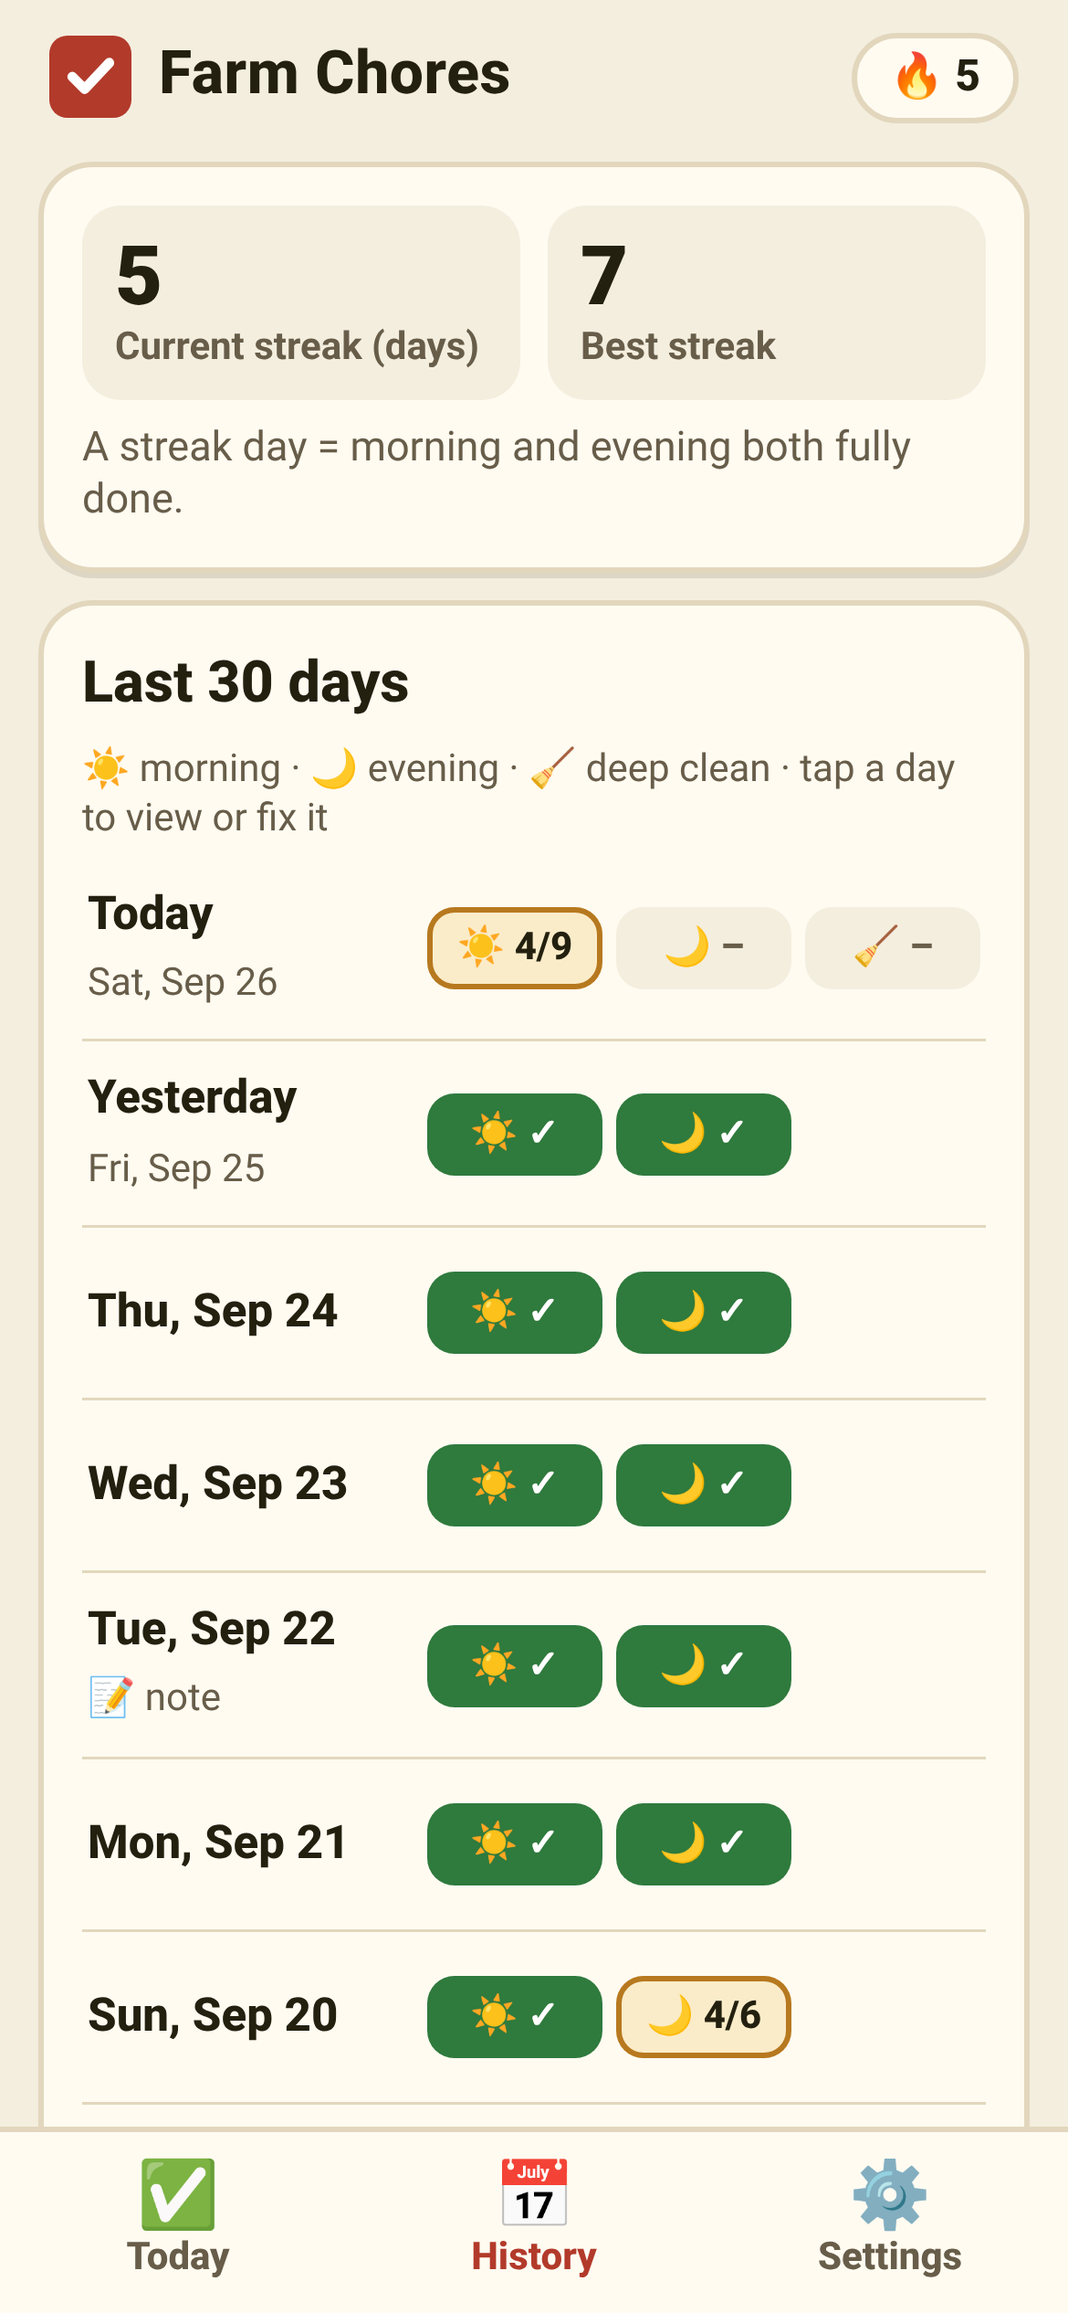
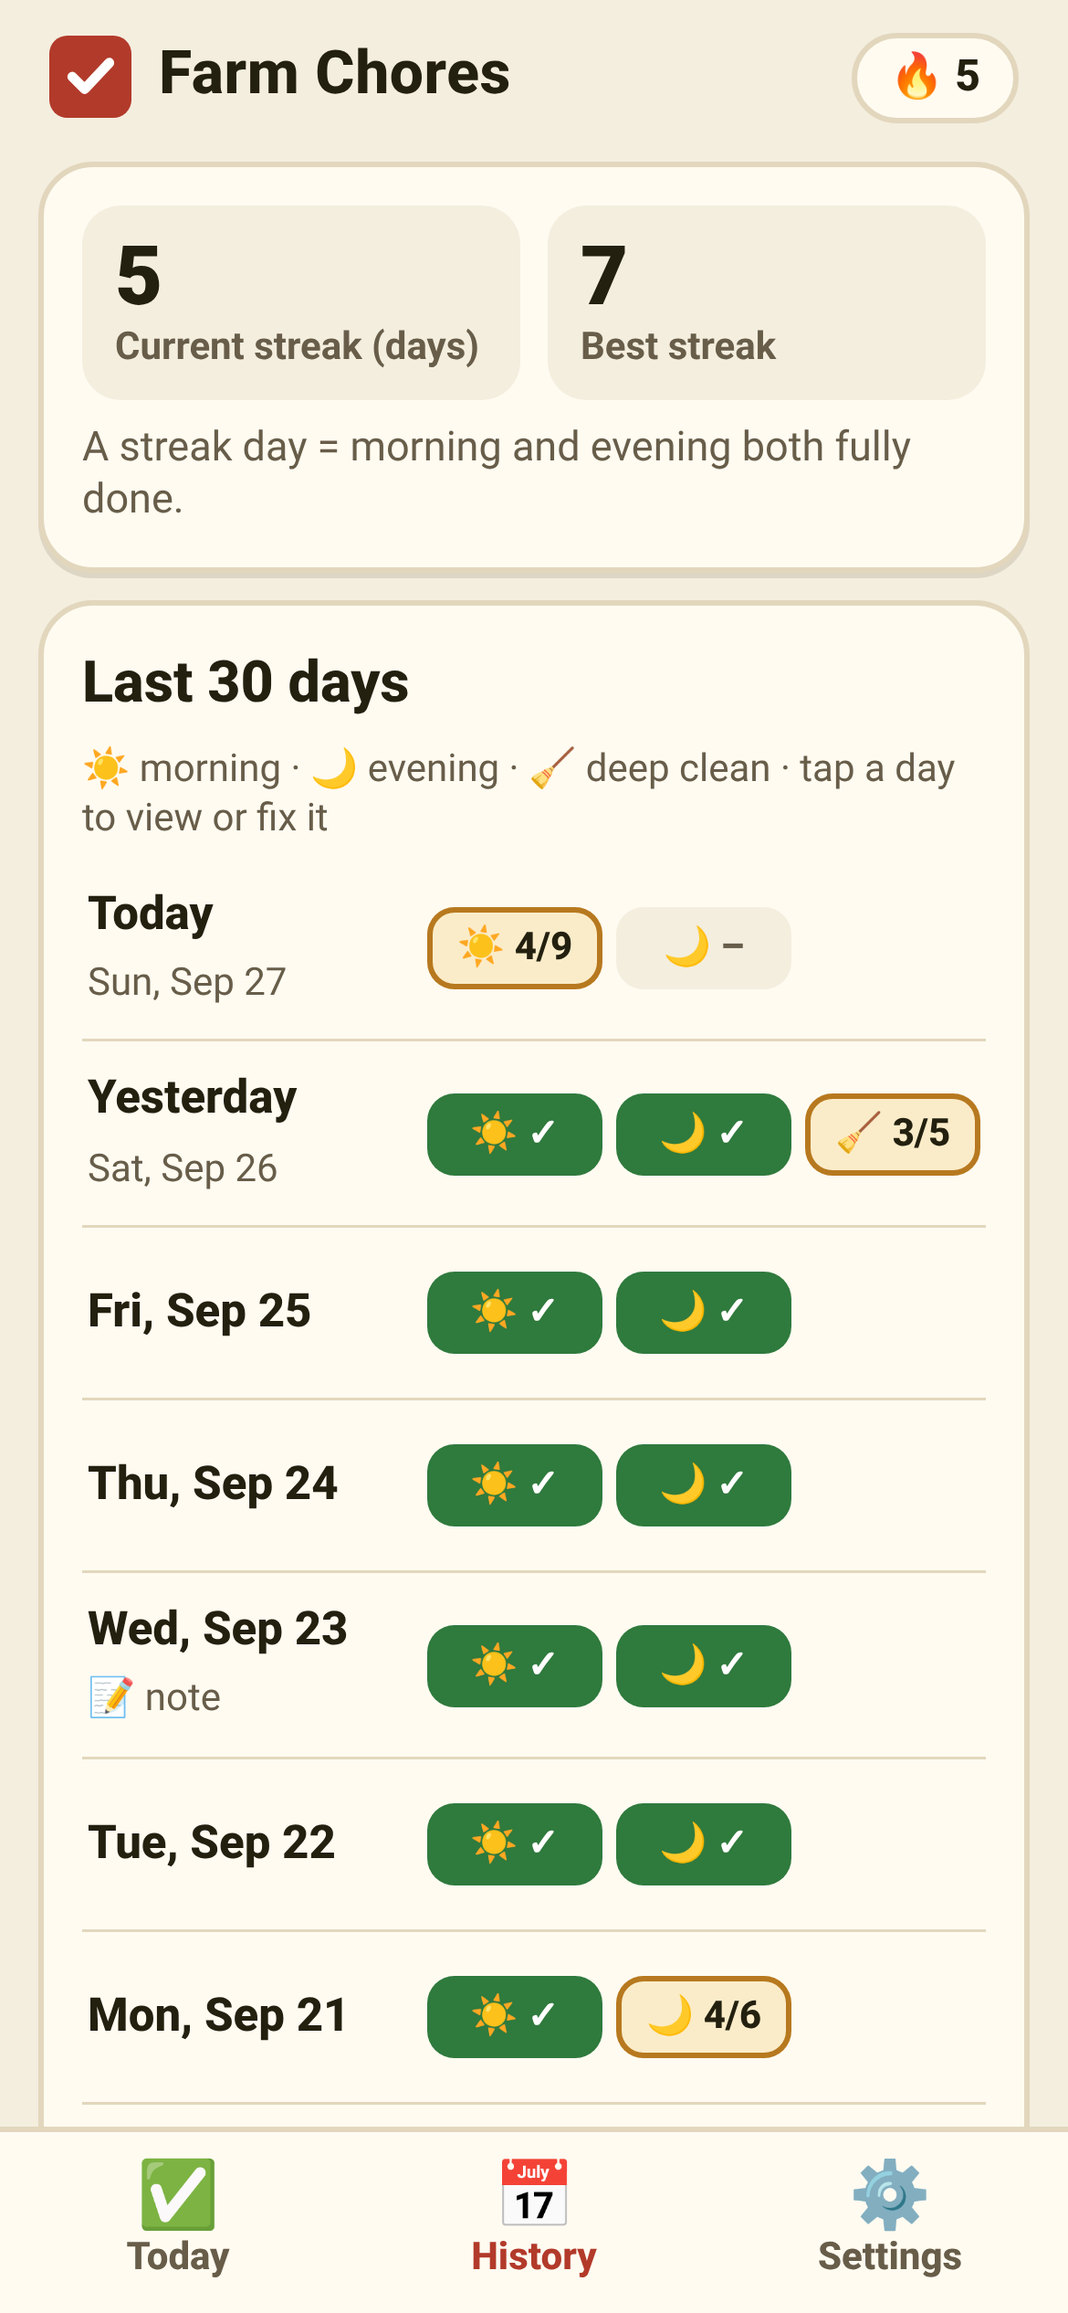
Connect to Farmhand: webhook notifications for completed chores (queue, retry, no-cors fallback); SW cache v2

diff --git a/index.html b/index.html
@@ -137,7 +137,7 @@ h2{font-size:21px;margin:2px 0 8px;font-weight:800}
 .btn.outline-danger{color:var(--danger);border-color:var(--danger);background:transparent}
 .btn.wide{width:100%}
 .btn.sm{min-height:44px;font-size:16px;padding:0 12px}
-input[type=date],input[type=number],input[type=text],select,textarea{
+input[type=date],input[type=number],input[type=text],input[type=url],input[type=password],select,textarea{
   min-height:56px;border-radius:14px;border:2px solid var(--line);background:var(--bg);padding:0 12px;font-size:18px;
 }
 input[type=date]{flex:1;min-width:0}
@@ -182,6 +182,28 @@ label.field{display:block;font-weight:800;margin-bottom:6px}
 .inline{display:flex;align-items:center;justify-content:space-between;gap:10px}
 .inline select,.inline input{width:auto}
 .inline input[type=number]{width:96px;text-align:center}
+
+/* Farmhand connect */
+.fld{margin-top:12px}
+.fld input{width:100%}
+.keyrow{display:flex;gap:8px}
+.keyrow input{flex:1;min-width:0}
+.keyrow .btn{flex:none;min-width:84px}
+.tog{display:flex;align-items:center;justify-content:space-between;gap:12px;margin:14px 0 12px}
+.tog .tl{font-weight:800}
+.tog .tl span{display:block;font-weight:500;font-size:15px;color:var(--muted)}
+.switch{appearance:none;-webkit-appearance:none;flex:none;width:64px;height:38px;border-radius:999px;background:var(--line);position:relative;margin:0;cursor:pointer;transition:background-color .2s}
+.switch::after{content:"";position:absolute;top:4px;left:4px;width:30px;height:30px;border-radius:50%;background:#fff;box-shadow:0 1px 3px rgba(0,0,0,.3);transition:transform .2s}
+.switch:checked{background:var(--accent)}
+.switch:checked::after{transform:translateX(26px)}
+.switch:disabled{opacity:.45;cursor:default}
+.hookres{margin-top:10px;border-radius:14px;padding:10px 12px;font-size:15px;font-weight:700;background:var(--bg);word-break:break-word}
+.hookres.good{background:var(--accent-soft);color:var(--ink);box-shadow:inset 0 0 0 2px var(--accent)}
+.hookres.meh{background:var(--warn-soft);box-shadow:inset 0 0 0 2px var(--warn)}
+.hookres.bad{background:color-mix(in srgb,var(--danger) 12%,var(--card));box-shadow:inset 0 0 0 2px var(--danger)}
+.hookres code{display:block;font-weight:500;font-size:13px;margin-top:4px;white-space:pre-wrap;opacity:.9}
+.pending{display:flex;align-items:center;gap:10px;margin-top:10px;font-size:15px;font-weight:700;color:var(--warn)}
+.pending span{flex:1}
 
 /* Tab bar */
 nav{
@@ -313,6 +335,29 @@ nav button[aria-selected=true]{color:var(--barn)}
         <label for="bulkEvery"><strong>Bulk feed every</strong><br><span class="muted" style="font-size:15px">days (chickens &amp; turkeys)</span></label>
         <input type="number" id="bulkEvery" inputmode="numeric" min="1" max="365" step="1">
       </div>
+    </div>
+    <div class="card" id="hookCard">
+      <h2>🤝 Connect to Farmhand</h2>
+      <p class="note" style="margin-top:0">Paste the webhook URL and sender key from Farmhand's Chores app check-ins routine.</p>
+      <div class="fld">
+        <label class="field" for="hookUrl">Webhook URL</label>
+        <input type="url" id="hookUrl" inputmode="url" autocomplete="off" autocapitalize="off" autocorrect="off" spellcheck="false" placeholder="https://…">
+      </div>
+      <div class="fld">
+        <label class="field" for="hookKey">Sender key</label>
+        <div class="keyrow">
+          <input type="password" id="hookKey" autocomplete="off" autocapitalize="off" autocorrect="off" spellcheck="false" placeholder="Paste key">
+          <button class="btn" id="hookKeyShow" aria-pressed="false">Show</button>
+        </div>
+      </div>
+      <div class="tog">
+        <label class="tl" for="hookOn">Tell Farmhand automatically<span id="hookOnHint">When a list is all done or bulk feed is done</span></label>
+        <input type="checkbox" role="switch" class="switch" id="hookOn">
+      </div>
+      <button class="btn primary wide" id="hookTest">Send test</button>
+      <div class="hookres" id="hookResult" role="status" hidden></div>
+      <p class="note" id="hookLast"></p>
+      <div class="pending" id="hookPending" hidden><span id="hookPendingText"></span><button class="btn sm" id="hookRetry">Retry now</button></div>
     </div>
     <div class="card">
       <h2>Backup</h2>
@@ -616,14 +661,16 @@ nav button[aria-selected=true]{color:var(--barn)}
     var b = e.target.closest("button"); if (!b || !editing) return;
     var k = editing;
     if (b.dataset.all || b.dataset.none){
-      var l = b.dataset.all || b.dataset.none, on = !!b.dataset.all;
+      var l = b.dataset.all || b.dataset.none, on = !!b.dataset.all, was = stats(k, l).full;
       data.lists[l].tasks.forEach(function(t){ setCheck(k, l, t.id, on); });
-      save(); render(); return;
+      save();
+      if (on && !was && stats(k, l).full) notifyList(k, l);
+      render(); return;
     }
     if (b.classList.contains("task")){
       var list = b.closest("ul").dataset.list, id = b.dataset.id, now = b.getAttribute("aria-pressed") !== "true";
-      if (list === "bulk"){ if (now) bulkMark(k); else bulkUnmark(k); }
-      else setCheck(k, list, id, now);
+      if (list === "bulk"){ if (now){ bulkMark(k); if (k === todayKey()) notifyBulk(k); } else bulkUnmark(k); }
+      else { var wasF = stats(k, list).full; setCheck(k, list, id, now); if (now && !wasF && stats(k, list).full) notifyList(k, list); }
       if (now){ justChecked = list + ":" + id; buzz(10); }
       save(); render();
     }
@@ -652,13 +699,15 @@ nav button[aria-selected=true]{color:var(--barn)}
     var k = currentDay, id = b.dataset.id, on = !isChecked(k, sel, id);
     var wasFull = stats(k, sel).full;
     setCheck(k, sel, id, on); save();
-    if (on){ justChecked = id; buzz(12); if (!wasFull && stats(k, sel).full){ celebrate = true; buzz([20, 60, 30]); } }
+    if (on){ justChecked = id; buzz(12); if (!wasFull && stats(k, sel).full){ celebrate = true; buzz([20, 60, 30]); notifyList(k, sel); } }
     render();
   });
   $("checkAll").addEventListener("click", function(){
-    var k = currentDay;
+    var k = currentDay, wasFull = stats(k, sel).full;
     data.lists[sel].tasks.forEach(function(t){ setCheck(k, sel, t.id, true); });
-    save(); celebrate = true; buzz([20, 60, 30]); render();
+    save(); celebrate = true; buzz([20, 60, 30]);
+    if (!wasFull && stats(k, sel).full) notifyList(k, sel);
+    render();
   });
   $("clearList").addEventListener("click", function(){
     var L = data.lists[sel];
@@ -672,7 +721,7 @@ nav button[aria-selected=true]{color:var(--barn)}
   $("bulkHead").addEventListener("click", function(){ bulkOpen = !bulkOpen; renderBulk(); });
   $("bulkDone").addEventListener("click", function(){
     var t = currentDay;
-    if (bulkStatus().state === "fed") bulkUnmark(t); else { bulkMark(t); buzz([20, 60, 30]); }
+    if (bulkStatus().state === "fed") bulkUnmark(t); else { bulkMark(t); buzz([20, 60, 30]); notifyBulk(t); }
     bulkOpen = false; $("bulkSetRow").classList.remove("show"); save(); render();
   });
   $("bulkSetToggle").addEventListener("click", function(){ $("bulkSetRow").classList.toggle("show"); });
@@ -680,7 +729,7 @@ nav button[aria-selected=true]{color:var(--barn)}
     var k = $("bulkDate").value;
     if (!isValidKey(k)){ alert("Pick a date first."); return; }
     if (k > todayKey()){ alert("That date is in the future."); return; }
-    bulkSetLast(k); bulkOpen = false; $("bulkSetRow").classList.remove("show"); save(); render();
+    bulkSetLast(k); if (k === todayKey()) notifyBulk(k); bulkOpen = false; $("bulkSetRow").classList.remove("show"); save(); render();
   });
 
   // ---------- settings ----------
@@ -891,13 +940,197 @@ nav button[aria-selected=true]{color:var(--barn)}
   sortLog();
   render();
 
+  // ---------- Farmhand webhook ----------
+  // Stored separately from chore data so CSV/clear-all never touch it. Nothing is hardcoded: URL + key live only on this phone.
+  var HKEY = "farmChores.hook.v1", QMAX_AGE = 3 * 864e5, TIMEOUT = 15000;
+  var LISTOUT = { morning:"morning", evening:"evening", saturday:"deepclean" };
+  function hLoad(){
+    var h = null; try{ h = JSON.parse(localStorage.getItem(HKEY) || "null"); }catch(e){}
+    if (!h || typeof h !== "object") h = {};
+    h.url = typeof h.url === "string" ? h.url : ""; h.key = typeof h.key === "string" ? h.key : "";
+    h.enabled = !!h.enabled; h.style = h.style === "nocors" ? "nocors" : "cors";
+    if (!h.sent || typeof h.sent !== "object") h.sent = {};
+    if (!Array.isArray(h.queue)) h.queue = [];
+    return h;
+  }
+  var hook = hLoad();
+  function hSave(){ try{ localStorage.setItem(HKEY, JSON.stringify(hook)); }catch(e){} }
+  function hReady(){ return !!(hook.url && hook.key); }
+  function hActive(){ return hook.enabled && hReady(); }
+  function validUrl(u){ try{ var x = new window.URL(u); return x.protocol === "https:" || x.protocol === "http:"; }catch(e){ return false; } }
+
+  function payloadList(k, l){
+    var L = data.lists[l], c = checks(k, l), s = stats(k, l), r = data.days[k];
+    var p = { source:"farm-chores-app", event:"list_complete", list:LISTOUT[l], date:k, completedAt:new Date(s.at || Date.now()).toISOString(),
+      done:s.done, total:s.total, tasks:L.tasks.filter(function(t){ return c[t.id]; }).map(function(t){ return t.text; }) };
+    if (r && r.note && r.note.trim()) p.note = r.note.trim();
+    return p;
+  }
+  function payloadBulk(k){
+    var p = { source:"farm-chores-app", event:"bulk_feed_done", date:k, completedAt:new Date().toISOString(), done:1, total:1,
+      tasks:["Bulk feed chickens & turkeys"], nextDue:addDays(k, data.bulk.every) };
+    var r = data.days[k]; if (r && r.note && r.note.trim()) p.note = r.note.trim();
+    return p;
+  }
+  // Queue an event at most once per dedupe id (list+date / bulk+date). Never blocks: network happens later.
+  function notify(dedupe, build){
+    hook = hLoad();
+    if (!hActive() || hook.sent[dedupe]) return false;
+    var now = Date.now();
+    Object.keys(hook.sent).forEach(function(k){ if (now - hook.sent[k] > 60 * 864e5) delete hook.sent[k]; });
+    hook.sent[dedupe] = now;
+    hook.queue.push({ id:dedupe, created:Date.now(), tries:0, payload:build() });
+    hSave(); setTimeout(flushQueue, 0); renderHook();
+    return true;
+  }
+  function notifyList(k, l){ return notify("list:" + LISTOUT[l] + ":" + k, function(){ return payloadList(k, l); }); }
+  function notifyBulk(k){ return notify("bulk:" + k, function(){ return payloadBulk(k); }); }
+
+  function withTimeout(p){
+    return new Promise(function(res, rej){
+      var t = setTimeout(function(){ var e = new Error("timeout"); e.name = "TimeoutError"; rej(e); }, TIMEOUT);
+      p.then(function(v){ clearTimeout(t); res(v); }, function(e){ clearTimeout(t); rej(e); });
+    });
+  }
+  function attempt(style, payload){
+    var body = JSON.stringify(Object.assign({}, payload, { key:hook.key }));
+    if (style === "cors"){
+      return withTimeout(fetch(hook.url, { method:"POST", mode:"cors", cache:"no-store", credentials:"omit", body:body,
+        headers:{ "Content-Type":"application/json", "Authorization":"Bearer " + hook.key, "X-Webhook-Key":hook.key } }))
+        .then(function(res){
+          return res.text().catch(function(){ return ""; }).then(function(txt){
+            return { style:"cors", status:res.status, ok:res.ok, text:(txt || "").replace(/\s+/g, " ").trim().slice(0, 160) };
+          });
+        });
+    }
+    var u = new window.URL(hook.url); u.searchParams.set("key", hook.key);
+    return withTimeout(fetch(u.toString(), { method:"POST", mode:"no-cors", cache:"no-store", credentials:"omit", body:body,
+      headers:{ "Content-Type":"text/plain" } }))
+      .then(function(){ return { style:"nocors", ok:true, unconfirmed:true }; });
+  }
+  function errWords(e){
+    if (!e) return "Unknown error";
+    if (e.name === "TimeoutError") return "Timed out after " + (TIMEOUT / 1000) + " s — no answer from the server";
+    if (e.name === "TypeError") return navigator.onLine === false ? "No internet connection (phone is offline)" : "Network/CORS failure — couldn't reach the server, or it blocks requests from web apps";
+    return (e.name || "Error") + ": " + (e.message || "");
+  }
+  // Try the remembered style first; on a network/CORS TypeError fall back once to the other style.
+  function deliver(payload, preferCors){
+    if (!validUrl(hook.url)) return Promise.resolve({ ok:false, error:"That webhook URL doesn't look right (should start with https://)" });
+    var first = preferCors ? "cors" : hook.style, second = first === "cors" ? "nocors" : "cors";
+    return attempt(first, payload).catch(function(e){
+      if (e && e.name === "TypeError" && !(first === "nocors" && navigator.onLine === false)){
+        return attempt(second, payload).catch(function(e2){ throw e2; });
+      }
+      throw e;
+    }).then(function(r){
+      if (r.style === "nocors" || r.ok || r.status) { hook.style = r.style; }
+      return r;
+    }, function(e){ return { ok:false, error:errWords(e) }; });
+  }
+  function resultText(r){
+    if (r.unconfirmed) return "Sent (unconfirmed) — used the no-cors fallback, so the server's reply can't be read";
+    if (r.status) return (r.ok ? "✓ " : "✗ ") + "HTTP " + r.status + (r.ok ? " OK" : "");
+    return "✗ " + r.error;
+  }
+  function describe(p){
+    return p.event + (p.list ? " (" + p.list + ")" : "") + (p.event !== "test" && p.date !== todayKey() ? " for " + fmt(p.date, { month:"short", day:"numeric" }) : "");
+  }
+  function recordLast(p, r){
+    hook.last = { at:Date.now(), what:describe(p), result:resultText(r), text:r.text || "", ok:!!r.ok, unconfirmed:!!r.unconfirmed };
+  }
+  var flushing = false, flushAgain = false;
+  function flushQueue(){
+    if (flushing){ flushAgain = true; return; }
+    hook = hLoad();
+    var now = Date.now();
+    var before = hook.queue.length;
+    hook.queue = hook.queue.filter(function(q){ return q && q.payload && now - q.created < QMAX_AGE; });
+    if (hook.queue.length !== before) hSave();
+    if (!hReady() || !hook.queue.length){ renderHook(); return; }
+    flushing = true;
+    var items = hook.queue.slice();
+    (function next(i){
+      if (i >= items.length){
+        flushing = false; hSave(); renderHook();
+        if (flushAgain){ flushAgain = false; setTimeout(flushQueue, 0); }
+        return;
+      }
+      var item = items[i];
+      deliver(item.payload, false).then(function(r){
+        var fresh = hLoad(); fresh.style = hook.style; hook = fresh; // keep edits made meanwhile (url/key/new items)
+        recordLast(item.payload, r);
+        if (r.ok) hook.queue = hook.queue.filter(function(q){ return q.id !== item.id; });
+        else hook.queue.forEach(function(q){ if (q.id === item.id){ q.tries++; q.lastError = resultText(r); } });
+        hSave(); renderHook();
+        next(i + 1);
+      });
+    })(0);
+  }
+  function renderHook(){
+    if (!$("hookUrl")) return;
+    if (document.activeElement !== $("hookUrl")) $("hookUrl").value = hook.url;
+    if (document.activeElement !== $("hookKey")) $("hookKey").value = hook.key;
+    var ready = hReady();
+    $("hookOn").disabled = !ready;
+    $("hookOn").checked = hActive();
+    $("hookOnHint").textContent = ready ? "When a list is all done or bulk feed is done" : "Fill in both fields first";
+    $("hookTest").disabled = !ready;
+    var L = hook.last;
+    $("hookLast").textContent = L ? "Last sent: " + new Date(L.at).toLocaleString(undefined, { month:"short", day:"numeric", hour:"numeric", minute:"2-digit" }) +
+      " · " + L.what + " · " + L.result + (L.text ? " — " + L.text.slice(0, 80) : "") : "Last sent: nothing yet";
+    var n = hook.queue.length;
+    $("hookPending").hidden = !n;
+    $("hookPendingText").textContent = n + " update" + (n === 1 ? "" : "s") + " waiting to send — will retry automatically";
+  }
+  function showResult(r){
+    var el = $("hookResult");
+    el.hidden = false;
+    el.className = "hookres " + (r.ok && !r.unconfirmed ? "good" : r.unconfirmed ? "meh" : "bad");
+    el.textContent = resultText(r);
+    if (r.text){ var c = document.createElement("code"); c.textContent = "Reply: " + r.text; el.appendChild(c); }
+    else if (r.status){ var c2 = document.createElement("code"); c2.textContent = "(empty reply)"; el.appendChild(c2); }
+  }
+  $("hookUrl").addEventListener("input", function(){
+    var was = hReady(); hook = hLoad(); hook.url = this.value.trim();
+    if (!was && hReady()) hook.enabled = true; hSave(); renderHook();
+  });
+  $("hookKey").addEventListener("input", function(){
+    var was = hReady(); hook = hLoad(); hook.key = this.value.trim();
+    if (!was && hReady()) hook.enabled = true; hSave(); renderHook();
+  });
+  $("hookKeyShow").addEventListener("click", function(){
+    var k = $("hookKey"), show = k.type === "password";
+    k.type = show ? "text" : "password"; this.textContent = show ? "Hide" : "Show"; this.setAttribute("aria-pressed", String(show));
+  });
+  $("hookOn").addEventListener("change", function(){ hook = hLoad(); hook.enabled = this.checked && hReady(); hSave(); renderHook(); if (hook.enabled) flushQueue(); });
+  $("hookTest").addEventListener("click", function(){
+    var btn = this; hook = hLoad();
+    if (!hReady()) return;
+    btn.disabled = true; btn.textContent = "Sending…";
+    var el = $("hookResult"); el.hidden = false; el.className = "hookres"; el.textContent = "Sending test…";
+    var p = { source:"farm-chores-app", event:"test", date:todayKey(), completedAt:new Date().toISOString(), done:0, total:0, tasks:[], note:"Test from the Farm Chores app" };
+    deliver(p, true).then(function(r){
+      var st = hook.style; hook = hLoad(); hook.style = st;
+      recordLast(p, r); hSave();
+      btn.disabled = false; btn.textContent = "Send test";
+      showResult(r); renderHook();
+      if (r.ok) flushQueue();
+    });
+  });
+  $("hookRetry").addEventListener("click", flushQueue);
+  window.addEventListener("online", flushQueue);
+  document.addEventListener("visibilitychange", function(){ if (!document.hidden) flushQueue(); });
+  renderHook();
+  setTimeout(flushQueue, 800);
+
   // ---------- offline ----------
   if ("serviceWorker" in navigator && /^https?:$/.test(location.protocol)){
     navigator.serviceWorker.register("sw.js").catch(function(){});
   }
 
   // test hook
-  window.__chores = { todayKey:todayKey, addDays:addDays, toCSV:toCSV, bulkStatus:bulkStatus, streak:streak, sel:function(){ return sel; } };
+  window.__chores = { hook:function(){ return hLoad(); }, flush:flushQueue, todayKey:todayKey, addDays:addDays, toCSV:toCSV, bulkStatus:bulkStatus, streak:streak, sel:function(){ return sel; } };
 })();
 </script>
 </body>

diff --git a/sw.js b/sw.js
@@ -1,5 +1,5 @@
 // Offline cache for Farm Chores. Network-first for the page so updates arrive; cache fallback when offline.
-var CACHE = "farm-chores-v1";
+var CACHE = "farm-chores-v2";
 var ASSETS = ["./", "./index.html", "./manifest.json", "./apple-touch-icon.png", "./icon-512.png"];
 self.addEventListener("install", function(e){
   e.waitUntil(caches.open(CACHE).then(function(c){ return c.addAll(ASSETS); }).then(function(){ return self.skipWaiting(); }));
